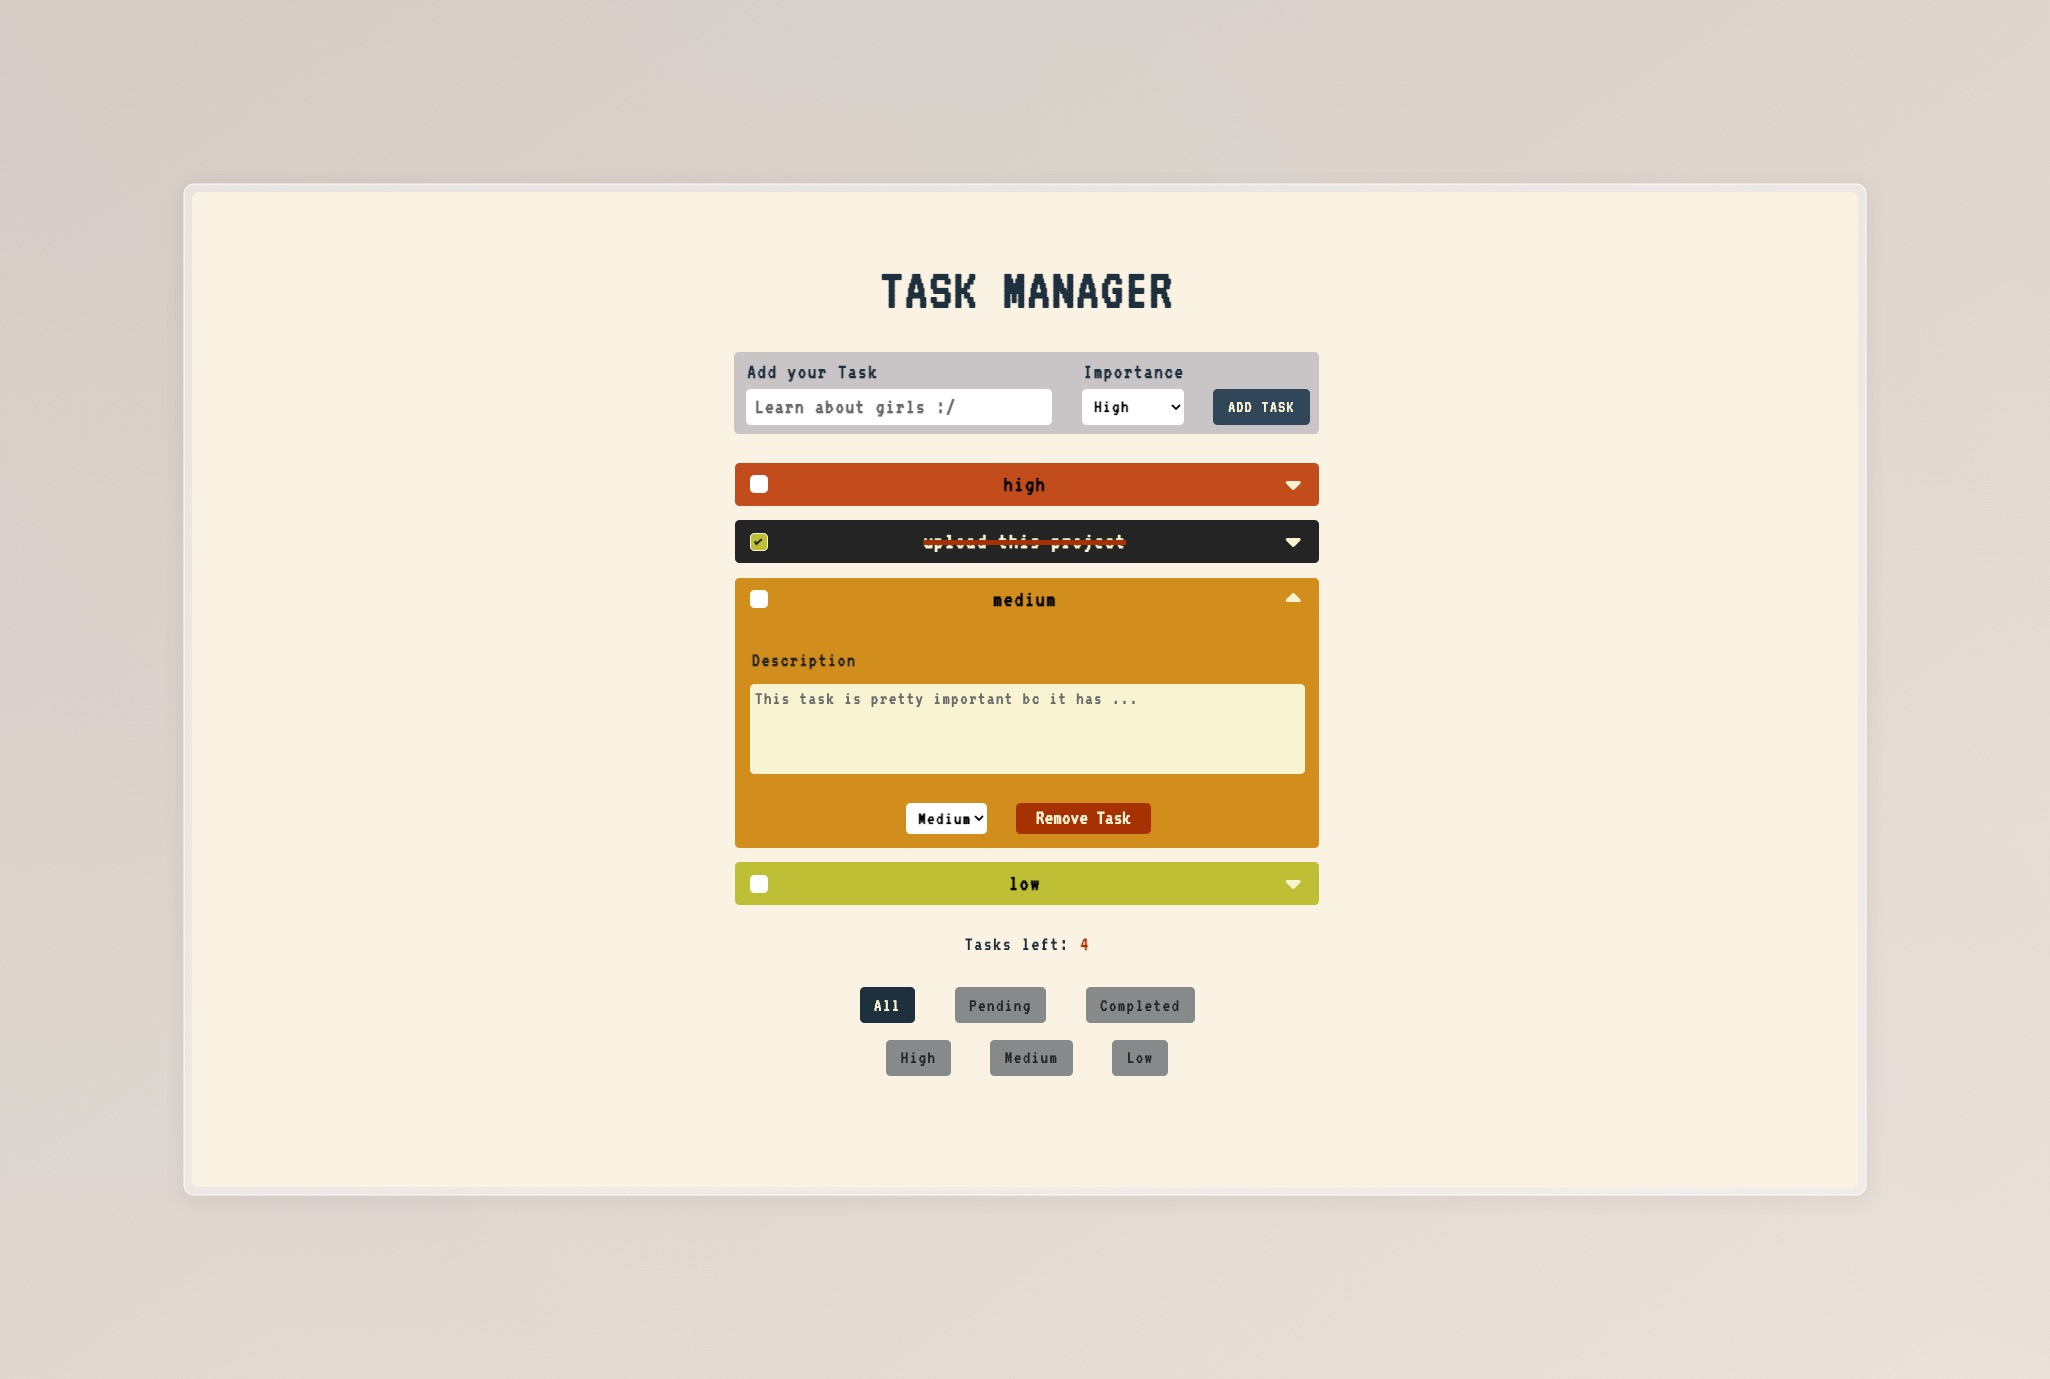
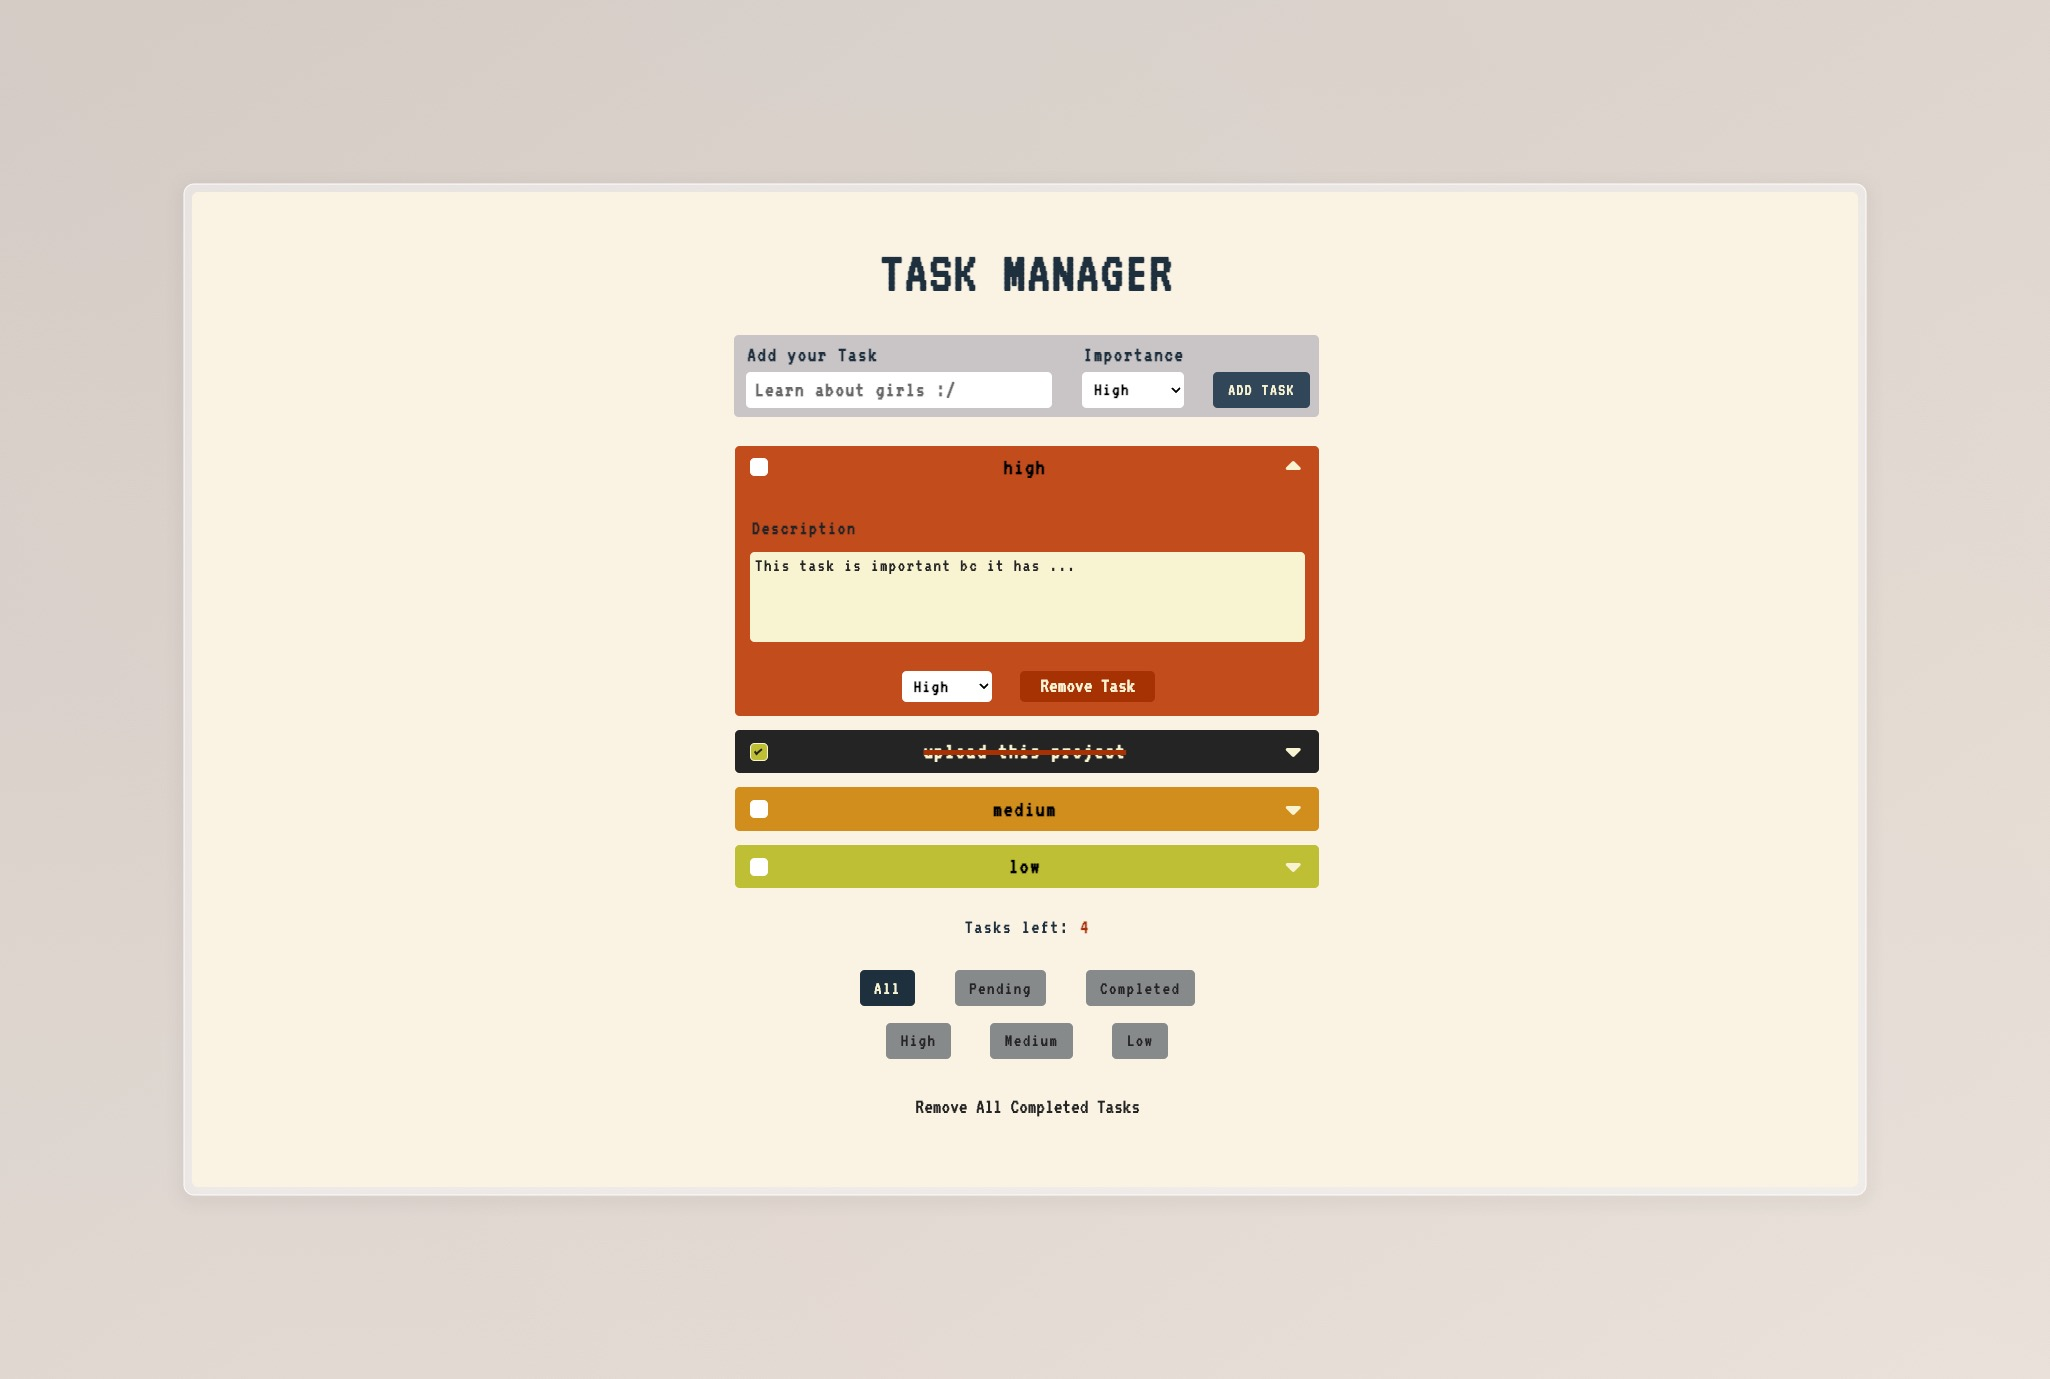
chore: Update package.json, add RemoveButton component, and improve CSS

Changed region(s): [[0.3434, 0.1871, 0.6556, 0.8107]]

diff --git a/src/context/TasksContext.tsx b/src/context/TasksContext.tsx
@@ -87,6 +87,11 @@ export const TasksContextProvider: React.FC<Props> = ({ children }) => {
     dispatch({ type: 'changeImportance', payload: newTasks })
   }
 
+  const removeAllCompleted = (): void => {
+    const newTasks = tasks.filter(task => !task.completed)
+    dispatch({ type: 'removeAllCompleted', payload: newTasks })
+  }
+
   const handleStatusFilter = (event: React.MouseEvent<HTMLButtonElement>): void => {
     const status = event.currentTarget.textContent ?? filters.status
     const newFilter = { ...filters, status }
@@ -107,7 +112,7 @@ export const TasksContextProvider: React.FC<Props> = ({ children }) => {
   }, [tasks])
 
   return (
-    <TasksContext.Provider value={{ filters, filteredTasks, addTask, toggleCompleted, changeTask, removeTask, updateDescription, expandTask, handleStatusFilter, handleImportanceFilter, changeImportance }}>
+    <TasksContext.Provider value={{ filters, filteredTasks, addTask, toggleCompleted, changeTask, removeTask, updateDescription, expandTask, handleStatusFilter, handleImportanceFilter, changeImportance, removeAllCompleted }}>
       {children}
     </TasksContext.Provider>
   )

diff --git a/types.d.ts b/types.d.ts
@@ -42,7 +42,13 @@ export interface ChangeImportance {
   type: 'changeImportance'
   payload: TasksType
 }
-export type TasksActions = AddTaskAction | RemoveTaskAction | ToggleCompleted | ChangeTask | UpdateDescription | ExpandTask | ChangeImportance
+
+export interface RemoveAllCompleted {
+  type: 'removeAllCompleted'
+  payload: TasksType
+}
+
+export type TasksActions = AddTaskAction | RemoveTaskAction | ToggleCompleted | ChangeTask | UpdateDescription | ExpandTask | ChangeImportance | RemoveAllCompleted
 
 export interface TaskContextType {
   filters: {
@@ -57,6 +63,7 @@ export interface TaskContextType {
   updateDescription: (id: string, event: React.ChangeEvent<HTMLTextAreaElement>) => void
   expandTask: (id: string) => void
   changeImportance: (id: string, event: React.ChangeEvent<HTMLSelectElement>) => void
+  removeAllCompleted: () => void
   handleStatusFilter: (event: React.MouseEvent<HTMLButtonElement>) => void
   handleImportanceFilter: (event: React.MouseEvent<HTMLButtonElement>) => void
 }

diff --git a/src/components/RemoveButton/RemoveButton.css b/src/components/RemoveButton/RemoveButton.css
@@ -1,0 +1,27 @@
+.remove-all-section {
+  width: 100%;
+  display: flex;
+  justify-content: center;
+  align-items: center;
+}
+
+.remove-all-btn {
+  background: transparent;
+  color: var(--black);
+  display: flex;
+  justify-content: center;
+  align-items: center;
+  flex-direction: column;
+  letter-spacing: 0;
+  width: 310px;
+  height: 35px;
+  font-size: 1.5rem;
+  border-radius: 5px;
+  padding-bottom: 2px;
+  transition: background 250ms ease, color 250ms ease;
+}
+
+.remove-all-btn:hover {
+  color: var(--white);
+  background: #af3a03;
+}

diff --git a/src/App.tsx b/src/App.tsx
@@ -3,6 +3,8 @@ import { AddTask } from './components/AddTask/AddTask'
 import { FilterTask } from './components/FilterTask/FilterTask'
 import { CounterTasks } from './components/CounterTasks/CounterTasks'
 
+import { RemoveButton } from './components/RemoveButton/RemoveButton'
+
 import './App.css'
 
 const App: React.FC = () => {
@@ -13,6 +15,7 @@ const App: React.FC = () => {
       <Tasks />
       <CounterTasks />
       <FilterTask />
+      <RemoveButton />
     </>
   )
 }

diff --git a/src/components/RemoveButton/RemoveButton.tsx b/src/components/RemoveButton/RemoveButton.tsx
@@ -1,0 +1,20 @@
+import { useContext } from 'react'
+import { TasksContext } from '../../context/TasksContext'
+
+import './RemoveButton.css'
+
+export const RemoveButton: React.FC = () => {
+  const {
+    removeAllCompleted
+  } = useContext(TasksContext)
+
+  return (
+    <section className='remove-all-section'>
+      <button
+        onClick={removeAllCompleted}
+        className='remove-all-btn'
+      >Remove All Completed Tasks
+      </button>
+    </section>
+  )
+}

diff --git a/src/index.css b/src/index.css
@@ -23,6 +23,7 @@
   font-family:  "VT323", monospace;
   letter-spacing: .1rem;
   padding-left: .1rem;
+  scrollbar-width: none;
 }
 
 body {
@@ -37,6 +38,7 @@ h1 {
   font-size: 4em;
   line-height: 1.1;
   margin-bottom: 0;
+  margin-top: 1.5rem ;
   font-weight: 900;
 }
 

diff --git a/src/reducer/taskReducer.ts b/src/reducer/taskReducer.ts
@@ -18,6 +18,8 @@ export const tasksReducer = (state: TasksType, action: TasksActions): TasksType 
       return payload
     case 'updateDescription':
       return payload
+    case 'removeAllCompleted':
+      return payload
     default:
       return state
   }

diff --git a/src/components/ExpandedView/ExpandedView.css b/src/components/ExpandedView/ExpandedView.css
@@ -50,6 +50,7 @@
     gap: 2rem;
 
     .importance-label {
+      width: 100px;
       display: flex;
       align-items: start;
       gap: 0.5rem;
